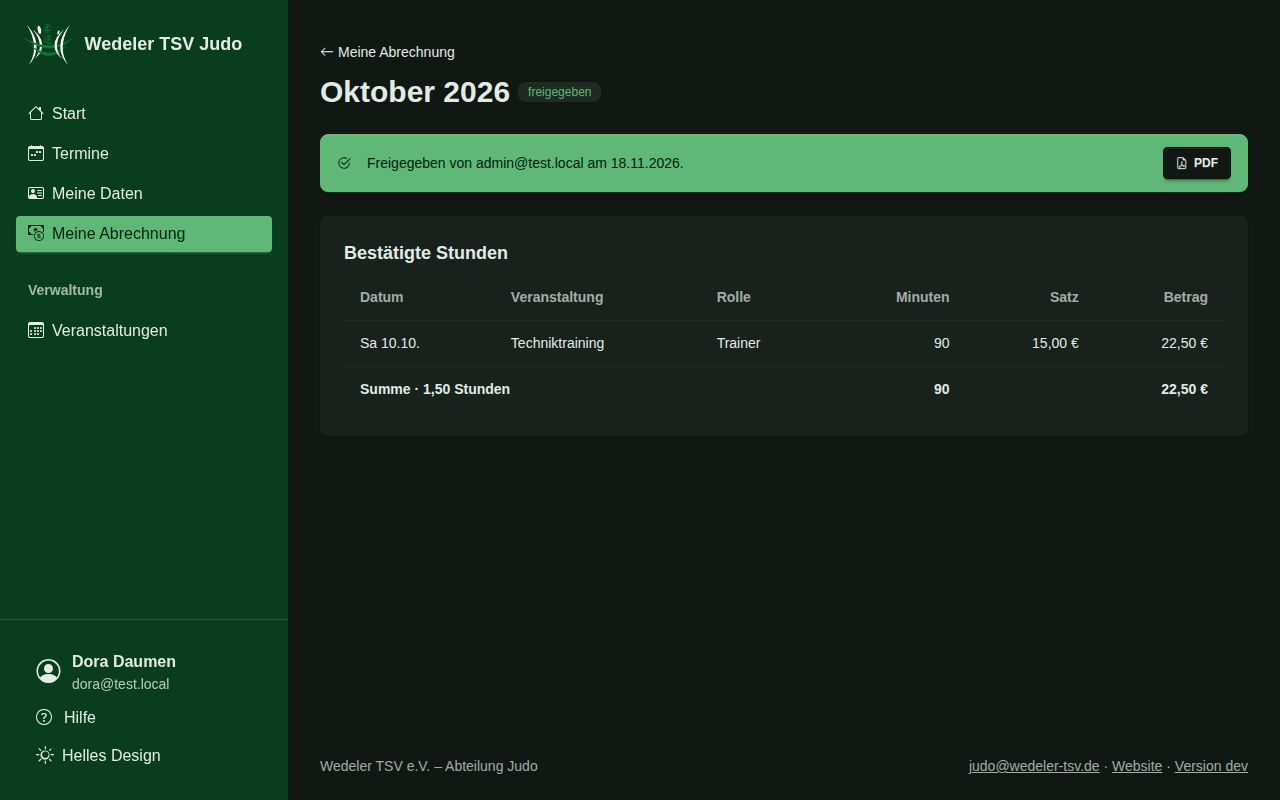
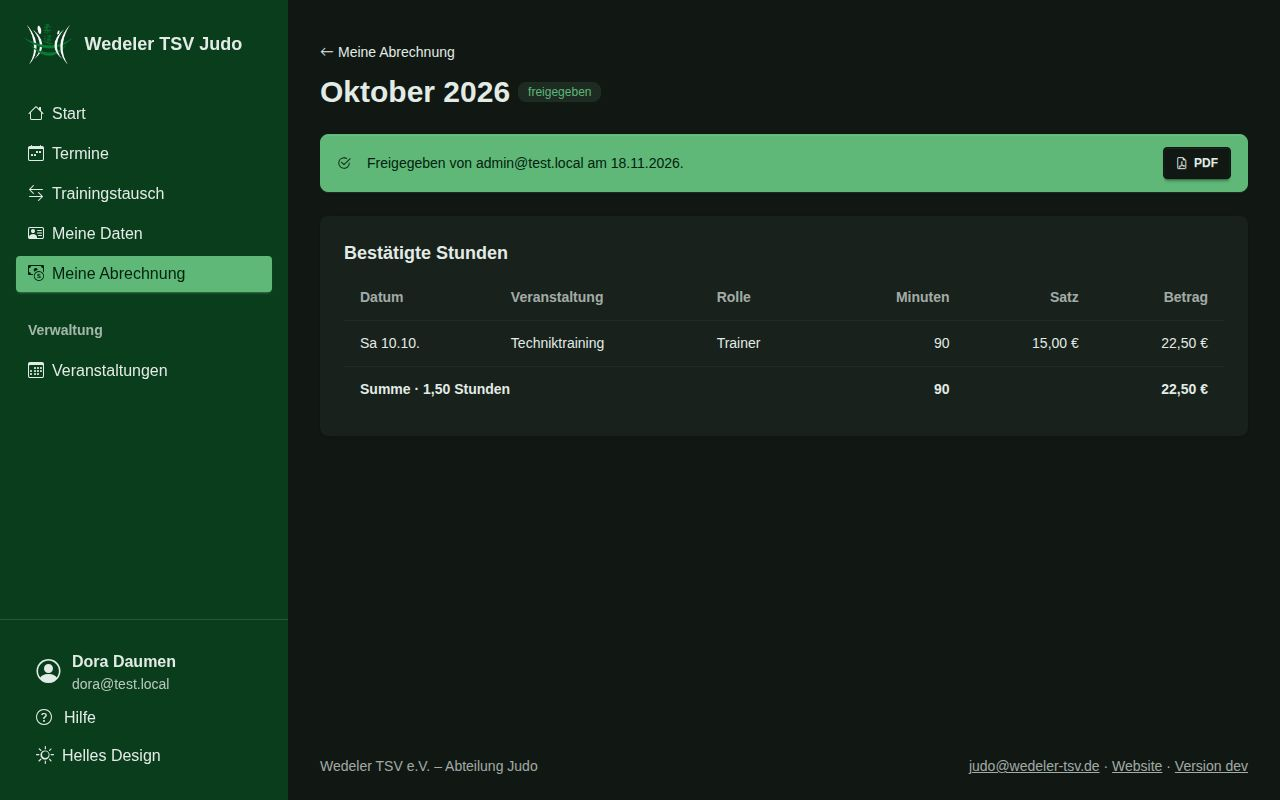
feat: Trainingstausch – alle Trainings eines Tages mit Vertreten, Übertragen und Entfernen
Neue Seite „Trainingstausch“ im Menü für Übungsleiter und die Abteilungsleitung: Tag per
Datumsfeld oder Pfeilen wählen, darunter alle Trainings des Tages mit ihren Übungsleitern und
denselben Knöpfen wie am Termin (gemeinsame Vorlage _team_actions.html). Nach jeder Aktion geht
es zurück zum gewählten Tag („next“ in Vertreten, Übertragen und Entfernen). Texte „austragen“
heißen jetzt „entfernen“. Hilfe „Übungsleiter“ ergänzt, Seite mit axe geprüft.

Claude-Session: https://claude.ai/code/session_017LHgXea5AxfRcr57bsDwjB

Changed region(s): [[0.0, 0.2188, 0.2188, 0.375], [0.0, 0.4062, 0.125, 0.4688]]

diff --git a/portal/events/templates/events/training_swap.html b/portal/events/templates/events/training_swap.html
@@ -1,0 +1,45 @@
+{% extends "layouts/page.html" %}
+{% load help static %}
+{% block title %}Trainingstausch{% endblock %}
+{% block heading %}Trainingstausch{% endblock %}
+{% block heading_extra %}{% help_link "team" %}{% endblock %}
+{% block intro %}Alle Trainings eines Tages mit ihren Übungsleitern. Vertreten, übertragen oder entfernen gilt sofort.{% endblock %}
+{% block scripts %}<script src="{% static 'js/auto-submit.js' %}"></script>{% endblock %}
+{% block page %}
+<form method="get" class="mb-6 flex flex-wrap items-end gap-2" data-auto-submit>
+  <div class="fieldset"><label class="fieldset-legend text-sm" for="tag">Tag</label><input class="input w-48" type="date" id="tag" name="tag" value="{{ day|date:'Y-m-d' }}" required></div>
+  <div class="join mb-1">
+    <a class="btn join-item" href="?tag={{ previous|date:'Y-m-d' }}" aria-label="Vorheriger Tag"><i class="bi bi-chevron-left" aria-hidden="true"></i></a>
+    {% if day != today %}<a class="btn join-item" href="?tag={{ today|date:'Y-m-d' }}">Heute</a>{% endif %}
+    <a class="btn join-item" href="?tag={{ following|date:'Y-m-d' }}" aria-label="Nächster Tag"><i class="bi bi-chevron-right" aria-hidden="true"></i></a>
+  </div>
+  <noscript><button class="btn btn-primary mb-1" type="submit">Anzeigen</button></noscript>
+</form>
+
+<section class="card bg-base-100 shadow-sm" aria-labelledby="h-tag"><div class="card-body">
+  <h2 class="card-title" id="h-tag">{{ day|date:"l, d.m.Y" }}</h2>
+  {% if trainings %}
+  <ul class="list">
+    {% for training in trainings %}{% with occurrence=training.occurrence %}
+    <li class="flex flex-col gap-2 border-base-300 py-4 not-last:border-b">
+      <div>
+        <a class="link link-hover font-semibold" href="{% url 'occurrence_detail' occurrence.pk %}">{{ occurrence.event.title }}</a>
+        {% if occurrence.is_cancelled %}<span class="badge badge-soft badge-error badge-sm">abgesagt</span>{% endif %}
+        <div class="text-sm text-base-content/70">{{ occurrence.starts_at|date:"H:i" }}–{{ occurrence.ends_at|date:"H:i" }} Uhr{% if occurrence.place %} · {{ occurrence.place }}{% endif %}</div>
+      </div>
+      {% if training.team_rows %}
+      <ul class="list">
+        {% for row in training.team_rows %}{% with p=row.p %}
+        <li class="list-row items-center px-0">
+          <div class="list-col-grow"><div class="font-semibold">{{ p.member.display_name }}{% if row.is_self %} <span class="badge badge-ghost badge-sm">du</span>{% endif %}</div><div class="text-sm text-base-content/70">{{ p.role.name }}{% if p.is_confirmed %} · bestätigt{% endif %}</div></div>
+          {% include "events/_team_actions.html" with next=back %}
+        </li>
+        {% endwith %}{% endfor %}
+      </ul>
+      {% else %}<p class="text-sm text-base-content/70">Noch keine Übungsleiter eingeteilt.</p>{% endif %}
+    </li>
+    {% endwith %}{% endfor %}
+  </ul>
+  {% else %}<p class="text-base-content/70">An diesem Tag ist kein Training.</p>{% endif %}
+</div></section>
+{% endblock %}

diff --git a/portal/help/templates/help/chapters/team.html b/portal/help/templates/help/chapters/team.html
@@ -13,10 +13,12 @@
 {% screenshot "vertretung" "Übungsleiter eines Termins mit Übertragen, Entfernen und Vertreten" %}
 <ul>
   <li><strong>Übertragen</strong> (du gibst ab): Tippe in deiner Zeile auf <strong>Übertragen</strong>, wähle, wer übernimmt, und tippe auf <strong>Übertragen</strong>. Die Vertretung bekommt eine Push-Benachrichtigung, sonst eine Mail.</li>
-  <li><strong>Vertreten</strong> (du übernimmst): Öffne den Termin, z. B. über den Link der anderen Person oder über <a href="{% url 'event_list' %}">Veranstaltungen</a>, und tippe in ihrer Zeile auf <strong>Vertreten</strong>. Du übernimmst ihre Rolle, sie bekommt eine Nachricht.</li>
+  <li><strong>Vertreten</strong> (du übernimmst): Öffne den Termin, z. B. über den Link der anderen Person, oder den <a href="{% url 'training_swap' %}">Trainingstausch</a> und tippe in ihrer Zeile auf <strong>Vertreten</strong>. Du übernimmst ihre Rolle, sie bekommt eine Nachricht.</li>
   <li><strong>Entfernen</strong> (ohne Vertretung, z. B. als Co-Trainer): Tippe in deiner Zeile auf <strong>Entfernen</strong>. Wäre danach kein Trainer mehr eingeteilt, fragt das Portal nach und gibt der Abteilungsleitung Bescheid; zwei Tage vor dem Termin erinnert es sie noch einmal, falls bis dahin niemand eingesprungen ist.</li>
 </ul>
 <p>Das geht auch nach dem Termin, solange die Stunden nicht eingereicht sind: Wer vertreten hat, bestätigt dann die Stunden (siehe <a href="{% url 'help_chapter' 'stunden' %}#nicht-dabei">Nicht dabei?</a>).</p>
+<h3 id="trainingstausch">Trainingstausch</h3>
+<p>Unter <a href="{% url 'training_swap' %}">Trainingstausch</a> wählst du einen Tag und siehst alle Trainings dieses Tages mit ihren Übungsleitern. Daneben stehen dieselben Knöpfe wie am Termin: <strong>Vertreten</strong>, <strong>Übertragen</strong> und <strong>Entfernen</strong>. Mit den Pfeilen blätterst du zum vorherigen oder nächsten Tag; nach jeder Aktion bleibst du auf dem gewählten Tag.</p>
 
 <h2 id="termin">Am Termin</h2>
 {% screenshot "termin-team" "Termin aus Sicht der Übungsleiter" %}

diff --git a/portal/events/templates/events/team_remove.html b/portal/events/templates/events/team_remove.html
@@ -3,14 +3,14 @@
 {% block width %}narrow{% endblock %}
 {% block back_url %}{% url 'occurrence_detail' occurrence.pk %}{% endblock %}
 {% block back_label %}{{ occurrence.event.title }}{% endblock %}
-{% block heading %}Wirklich austragen?{% endblock %}
+{% block heading %}Wirklich entfernen?{% endblock %}
 {% block page %}
 <div class="card bg-base-100 shadow-sm"><div class="card-body gap-4">
   <div role="alert" class="alert alert-soft alert-error"><i class="bi bi-exclamation-triangle text-lg" aria-hidden="true"></i>
     <span>Danach ist für <strong>{{ occurrence.event.title }}</strong> am {{ occurrence.starts_at|date:"l, d.m.Y" }} um {{ occurrence.starts_at|date:"H:i" }} Uhr kein Trainer mehr eingeteilt. Die Abteilungsleitung bekommt eine Nachricht.</span></div>
   <p>Gibt es eine Vertretung? Dann übertrage {% if is_self %}deinen Platz{% else %}den Platz{% endif %} lieber – so weiß jeder Bescheid.</p>
-  <form method="post" action="{% url 'occurrence_team_remove' occurrence.pk participation.pk %}">{% csrf_token %}<input type="hidden" name="confirmed" value="1">
-    <div class="action-bar"><button type="submit" class="btn btn-error">Trotzdem austragen</button><a class="btn" href="{% url 'occurrence_hand_over' occurrence.pk participation.pk %}">Übertragen</a></div>
+  <form method="post" action="{% url 'occurrence_team_remove' occurrence.pk participation.pk %}">{% csrf_token %}<input type="hidden" name="confirmed" value="1"><input type="hidden" name="next" value="{{ next }}">
+    <div class="action-bar"><button type="submit" class="btn btn-error">Trotzdem entfernen</button><a class="btn" href="{% url 'occurrence_hand_over' occurrence.pk participation.pk %}?next={{ next|urlencode }}">Übertragen</a></div>
   </form>
 </div></div>
 {% endblock %}

diff --git a/portal/events/templates/events/occurrence_detail.html b/portal/events/templates/events/occurrence_detail.html
@@ -50,15 +50,7 @@
     {% for row in team_rows %}{% with p=row.p %}
     <li class="list-row items-center px-0">
       <div class="list-col-grow"><div class="font-semibold">{{ p.member.display_name }}{% if row.is_self %} <span class="badge badge-ghost badge-sm">du</span>{% endif %}</div><div class="text-sm text-base-content/70">{{ p.role.name }}{% if p.is_confirmed %} · bestätigt, {{ p.minutes }} Minuten{% endif %}</div></div>
-      {% if row.can_change or row.can_take_over %}
-      <div class="flex flex-wrap justify-end gap-2 max-sm:list-col-wrap max-sm:justify-start">
-        {% if row.can_take_over %}<form method="post" action="{% url 'occurrence_take_over' occurrence.pk p.pk %}">{% csrf_token %}<button class="btn btn-outline btn-primary btn-sm" aria-label="{{ p.member.display_name }} vertreten"><i class="bi bi-arrow-left-right" aria-hidden="true"></i> Vertreten</button></form>{% endif %}
-        {% if row.can_change %}
-        <a class="btn btn-outline btn-sm" href="{% url 'occurrence_hand_over' occurrence.pk p.pk %}" aria-label="{% if row.is_self %}Meinen Platz übertragen{% else %}Platz von {{ p.member.display_name }} übertragen{% endif %}"><i class="bi bi-person-check" aria-hidden="true"></i> Übertragen</a>
-        <form method="post" action="{% url 'occurrence_team_remove' occurrence.pk p.pk %}">{% csrf_token %}<button class="btn btn-outline btn-error btn-sm" aria-label="{% if row.is_self %}Mich entfernen{% else %}{{ p.member.display_name }} entfernen{% endif %}">Entfernen</button></form>
-        {% endif %}
-      </div>
-      {% endif %}
+      {% include "events/_team_actions.html" %}
     </li>
     {% endwith %}{% endfor %}
   </ul>

diff --git a/portal/events/templates/events/_team_actions.html b/portal/events/templates/events/_team_actions.html
@@ -1,0 +1,10 @@
+{# Knöpfe einer Übungsleiter-Zeile (ADR 0018). Erwartet row (aus _team_rows), occurrence und optional next. #}
+{% with p=row.p %}{% if row.can_change or row.can_take_over %}
+<div class="flex flex-wrap justify-end gap-2 max-sm:list-col-wrap max-sm:justify-start">
+  {% if row.can_take_over %}<form method="post" action="{% url 'occurrence_take_over' occurrence.pk p.pk %}">{% csrf_token %}{% if next %}<input type="hidden" name="next" value="{{ next }}">{% endif %}<button class="btn btn-outline btn-primary btn-sm" aria-label="{{ p.member.display_name }} vertreten"><i class="bi bi-arrow-left-right" aria-hidden="true"></i> Vertreten</button></form>{% endif %}
+  {% if row.can_change %}
+  <a class="btn btn-outline btn-sm" href="{% url 'occurrence_hand_over' occurrence.pk p.pk %}{% if next %}?next={{ next|urlencode }}{% endif %}" aria-label="{% if row.is_self %}Meinen Platz übertragen{% else %}Platz von {{ p.member.display_name }} übertragen{% endif %}"><i class="bi bi-person-check" aria-hidden="true"></i> Übertragen</a>
+  <form method="post" action="{% url 'occurrence_team_remove' occurrence.pk p.pk %}">{% csrf_token %}{% if next %}<input type="hidden" name="next" value="{{ next }}">{% endif %}<button class="btn btn-outline btn-error btn-sm" aria-label="{% if row.is_self %}Mich entfernen{% else %}{{ p.member.display_name }} entfernen{% endif %}">Entfernen</button></form>
+  {% endif %}
+</div>
+{% endif %}{% endwith %}

diff --git a/portal/events/templates/events/agenda.html b/portal/events/templates/events/agenda.html
@@ -5,7 +5,7 @@
 {% block heading_extra %}{% help_link "termine" %}{% endblock %}
 {% block more %}{% if can_plan_events %}<li><a href="{% url 'event_list' %}"><i class="bi bi-calendar3" aria-hidden="true"></i> Veranstaltungen</a></li>{% endif %}{% endblock %}
 {% block intro %}Alle kommenden Termine.{% if agenda.has_members %} Mehrere Filter gelten zusammen.{% endif %}{% endblock %}
-{% block scripts %}<script src="{% static 'js/agenda.js' %}"></script>{% endblock %}
+{% block scripts %}<script src="{% static 'js/auto-submit.js' %}"></script>{% endblock %}
 {% block page %}
 <form method="get" action="{% url 'quick_link_form' %}" class="mb-4 flex flex-wrap items-end gap-2" role="search" aria-label="Termin per Code öffnen">
   <div class="fieldset"><label class="fieldset-legend text-sm" for="code">Code von der Ausschreibung</label><input class="input w-40 font-mono" id="code" name="code" type="text" autocomplete="off" autocapitalize="characters" spellcheck="false" maxlength="12" placeholder="z. B. K7M4PX" required></div>

diff --git a/e2e/abrechnung.spec.ts b/e2e/abrechnung.spec.ts
@@ -93,7 +93,7 @@ test("Übungsleiterin bestätigt und reicht den Vormonat ein, die Abteilungsleit
   await expect(trainer.getByRole("button", { name: "Hat nicht stattgefunden" })).toBeHidden(); // im Menü
   await expectNoA11yViolations(trainer);
   await trainer.getByRole("button", { name: "Mich entfernen" }).click();
-  await expect(trainer.getByText("Du bist als Trainer ausgetragen.")).toBeVisible();
+  await expect(trainer.getByText("Du bist als Trainer entfernt.")).toBeVisible();
   await trainer.goto("/abrechnung/");
   await trainer.getByRole("link", { name: month }).click();
   await expect(trainer.getByRole("heading", { name: "Nicht bestätigt" })).toHaveCount(0);

diff --git a/portal/events/templates/events/hand_over.html b/portal/events/templates/events/hand_over.html
@@ -13,7 +13,7 @@
   <form method="post" class="flex flex-col gap-4">{% csrf_token %}
     {{ form }}
     <p class="text-sm text-base-content/70">Die Vertretung bekommt eine Push-Benachrichtigung, sonst eine Mail.{% if participation.is_confirmed %} Deine Bestätigung wird zurückgenommen.{% endif %}</p>
-    <div class="action-bar"><button type="submit" class="btn btn-primary">Übertragen</button><a class="btn" href="{% url 'occurrence_detail' occurrence.pk %}">Abbrechen</a></div>
+    <div class="action-bar"><button type="submit" class="btn btn-primary">Übertragen</button><a class="btn" href="{{ next }}">Abbrechen</a></div>
   </form>
 </div></div>
 {% endblock %}

diff --git a/e2e/pages.spec.ts b/e2e/pages.spec.ts
@@ -12,6 +12,7 @@ const pages = [
   { path: "/meine-daten/", heading: "Meine Daten" },
   { path: "/mitglieder/interessen/", heading: "Interessen" },
   { path: "/termine/", heading: "Termine" },
+  { path: "/trainingstausch/", heading: "Trainingstausch" },
   { path: "/veranstaltungen/", heading: "Veranstaltungen" },
   { path: "/veranstaltungen/neu/", heading: "Veranstaltung anlegen" },
   { path: "/zielgruppen/", heading: "Zielgruppen-Vorlagen" },

diff --git a/portal/static/js/auto-submit.js b/portal/static/js/auto-submit.js
@@ -1,4 +1,4 @@
-// Termine: Filter-Knöpfe gelten sofort. Ohne JavaScript gibt es den Knopf „Anwenden“.
+// Formulare mit data-auto-submit (Filter der Termine, Tag im Trainingstausch) gelten sofort; ohne JavaScript gibt es einen Knopf.
 (() => {
   for (const form of document.querySelectorAll("form[data-auto-submit]")) {
     form.addEventListener("change", () => form.requestSubmit());

diff --git a/portal/events/tests/test_training_swap.py b/portal/events/tests/test_training_swap.py
@@ -1,0 +1,95 @@
+"""Trainingstausch: alle Trainings eines Tages mit Übungsleitern, Vertreten/Übertragen/Entfernen zurück zum Tag."""
+
+from __future__ import annotations
+
+import pytest
+from django.urls import reverse
+from django.utils import timezone
+
+from portal.events import services
+from portal.events.models import Event, Participation
+
+from .conftest import PASSWORD, event_type, make_occurrence, make_trainer, role
+
+pytestmark = pytest.mark.django_db
+
+
+def login(client, user):
+    assert client.login(email=user.email, password=PASSWORD)
+    return client
+
+
+def day_of(occurrence) -> str:
+    return timezone.localtime(occurrence.starts_at).date().isoformat()
+
+
+@pytest.fixture
+def training(trainer):
+    """Übermorgen ein Training mit Anna als Trainerin."""
+    occurrence = make_occurrence(
+        Event.objects.create(title="Kindertraining", event_type=event_type("Training")), in_days=2
+    )
+    services.set_team(occurrence, services.own_member(trainer), role("Trainer"))
+    return occurrence
+
+
+def test_lists_only_trainings_of_the_day_with_actions(client, training, trainer):
+    contest = Event.objects.create(title="Turnier", event_type=event_type("Wettkampf"))
+    make_occurrence(contest, in_days=2)
+    ben = make_trainer("ben@example.org", "Ben")
+    login(client, ben)
+    page = client.get(reverse("training_swap"), {"tag": day_of(training)}).content.decode()
+    assert "Kindertraining" in page and "Turnier" not in page
+    assert "Anna Trainer" in page and "Anna Trainer vertreten" in page
+    assert "Platz von Anna Trainer übertragen" not in page  # nur für sich selbst oder wer den Termin leitet
+    login(client, trainer)
+    page = client.get(reverse("training_swap"), {"tag": day_of(training)}).content.decode()
+    assert "Meinen Platz übertragen" in page and "Mich entfernen" in page
+    assert (
+        "An diesem Tag ist kein Training."
+        in client.get(reverse("training_swap"), {"tag": "2001-01-01"}).content.decode()
+    )
+
+
+def test_actions_return_to_the_day(client, training, trainer):
+    ben = make_trainer("ben@example.org", "Ben")
+    back = f"{reverse('training_swap')}?tag={day_of(training)}"
+    [anna] = services.team(training)
+    login(client, ben)
+    response = client.post(reverse("occurrence_take_over", args=[training.pk, anna.pk]), {"next": back})
+    assert response.url == back
+    [ben_shift] = services.team(training)
+    assert ben_shift.member == services.own_member(ben)
+    # Entfernen des letzten Trainers fragt nach und kommt danach auch zurück
+    response = client.post(reverse("occurrence_team_remove", args=[training.pk, ben_shift.pk]), {"next": back})
+    assert f'name="next" value="{back}"' in response.content.decode()
+    response = client.post(
+        reverse("occurrence_team_remove", args=[training.pk, ben_shift.pk]), {"next": back, "confirmed": "1"}
+    )
+    assert response.url == back and not Participation.objects.filter(pk=ben_shift.pk).exists()
+
+
+def test_hand_over_returns_to_the_day(client, training, trainer):
+    ben = make_trainer("ben@example.org", "Ben")
+    back = f"{reverse('training_swap')}?tag={day_of(training)}"
+    [anna] = services.team(training)
+    login(client, trainer)
+    url = reverse("occurrence_hand_over", args=[training.pk, anna.pk]) + "?next=" + back
+    response = client.post(url, {"member": services.own_member(ben).pk, "role": anna.role_id})
+    assert response.url == back
+
+
+def test_only_for_trainers_and_heads(client, parent, head, trainer):
+    login(client, parent)
+    assert client.get(reverse("training_swap")).status_code == 403
+    assert reverse("training_swap") not in client.get(reverse("home")).content.decode()
+    for user in (trainer, head):
+        login(client, user)
+        assert client.get(reverse("training_swap")).status_code == 200
+        assert reverse("training_swap") in client.get(reverse("home")).content.decode()
+
+
+def test_unknown_day_falls_back_to_today(client, trainer):
+    login(client, trainer)
+    page = client.get(reverse("training_swap"), {"tag": "kaputt"}).content.decode()
+    assert f'value="{timezone.localdate().isoformat()}"' in page

diff --git a/portal/events/views.py b/portal/events/views.py
@@ -1,5 +1,6 @@
 from __future__ import annotations
 
+from datetime import date, timedelta
 from typing import Any
 
 from django.contrib import messages
@@ -90,6 +91,37 @@ def agenda(request: HttpRequest) -> HttpResponse:
     query.pop("seite", None)
     context = {"agenda": result, "page": page, "form": form, "query": query.urlencode()}
     return render(request, "events/agenda.html", context)
+
+
+@login_required
+def training_swap(request: HttpRequest) -> HttpResponse:
+    """Trainingstausch: alle Trainings eines Tages mit ihren Übungsleitern; Vertreten, Übertragen und Entfernen
+    wie am Termin (ADR 0018), danach zurück zu diesem Tag."""
+    user = _user(request)
+    if not services.can_plan_staff(user):
+        raise PermissionDenied
+    try:
+        day = date.fromisoformat(request.GET.get("tag", ""))
+    except ValueError:
+        day = timezone.localdate()
+    member = services.own_member(user)
+    trainings = []
+    for occurrence in services.trainings_on(day):
+        team = services.team(occurrence)
+        own_team = next((p for p in team if member and p.member_id == member.pk), None)
+        lead = services.can_lead(user, occurrence)
+        trainings.append(
+            {"occurrence": occurrence, "team_rows": _team_rows(user, occurrence, team, member, own_team, lead)}
+        )
+    context = {
+        "day": day,
+        "today": timezone.localdate(),
+        "previous": day - timedelta(days=1),
+        "following": day + timedelta(days=1),
+        "trainings": trainings,
+        "back": f"{reverse('training_swap')}?tag={day.isoformat()}",
+    }
+    return render(request, "events/training_swap.html", context)
 
 
 def _own_member(request: HttpRequest, member_pk: int) -> Member:
@@ -379,7 +411,12 @@ def occurrence_team_remove(request: HttpRequest, pk: int, participation_pk: int)
         return render(
             request,
             "events/team_remove.html",
-            {"participation": participation, "occurrence": participation.occurrence, "is_self": is_self},
+            {
+                "participation": participation,
+                "occurrence": participation.occurrence,
+                "is_self": is_self,
+                "next": _next(request, participation.occurrence),
+            },
         )
     try:
         services.withdraw(participation, _user(request))
@@ -387,8 +424,8 @@ def occurrence_team_remove(request: HttpRequest, pk: int, participation_pk: int)
         messages.error(request, str(error))
     else:
         name = "Du bist" if is_self else f"{participation.person.display_name} ist"
-        messages.success(request, f"{name} als {participation.role.name} ausgetragen.")
-    return redirect("occurrence_detail", pk=pk)
+        messages.success(request, f"{name} als {participation.role.name} entfernt.")
+    return redirect(_next(request, participation.occurrence))
 
 
 @login_required
@@ -416,7 +453,7 @@ def occurrence_hand_over(request: HttpRequest, pk: int, participation_pk: int) -
             form.add_error("member", str(error))
         else:
             messages.success(request, f"Übertragen: {substitute.display_name} übernimmt und bekommt eine Nachricht.")
-            return redirect("occurrence_detail", pk=pk)
+            return redirect(_next(request, occurrence))
     return render(
         request,
         "events/hand_over.html",
@@ -426,6 +463,7 @@ def occurrence_hand_over(request: HttpRequest, pk: int, participation_pk: int) -
             "form": form,
             "is_self": is_self,
             "started": occurrence.starts_at <= timezone.now(),
+            "next": _next(request, occurrence),
         },
     )
 
@@ -450,7 +488,7 @@ def occurrence_take_over(request: HttpRequest, pk: int, participation_pk: int) -
         messages.error(request, str(error))
     else:
         messages.success(request, f"Du vertrittst {participation.person.display_name} als {participation.role.name}.")
-    return redirect("occurrence_detail", pk=pk)
+    return redirect(_next(request, participation.occurrence))
 
 
 @require_POST
